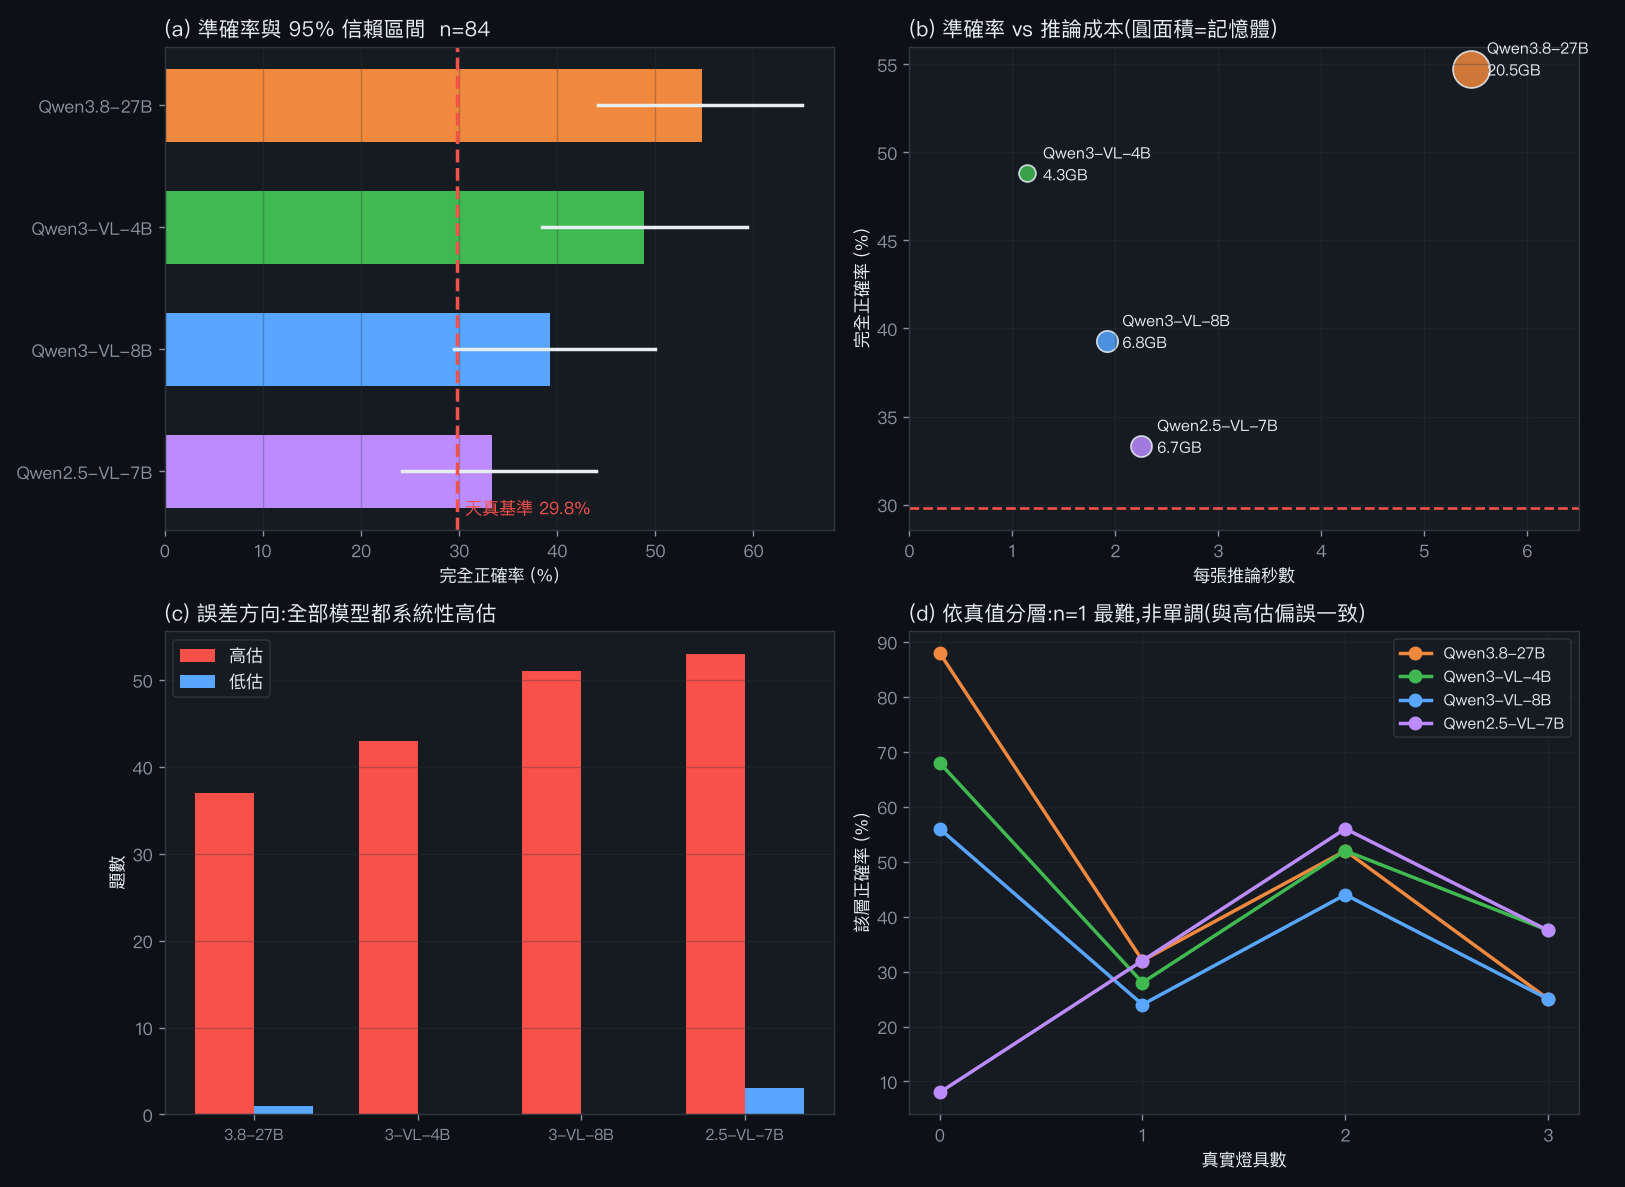
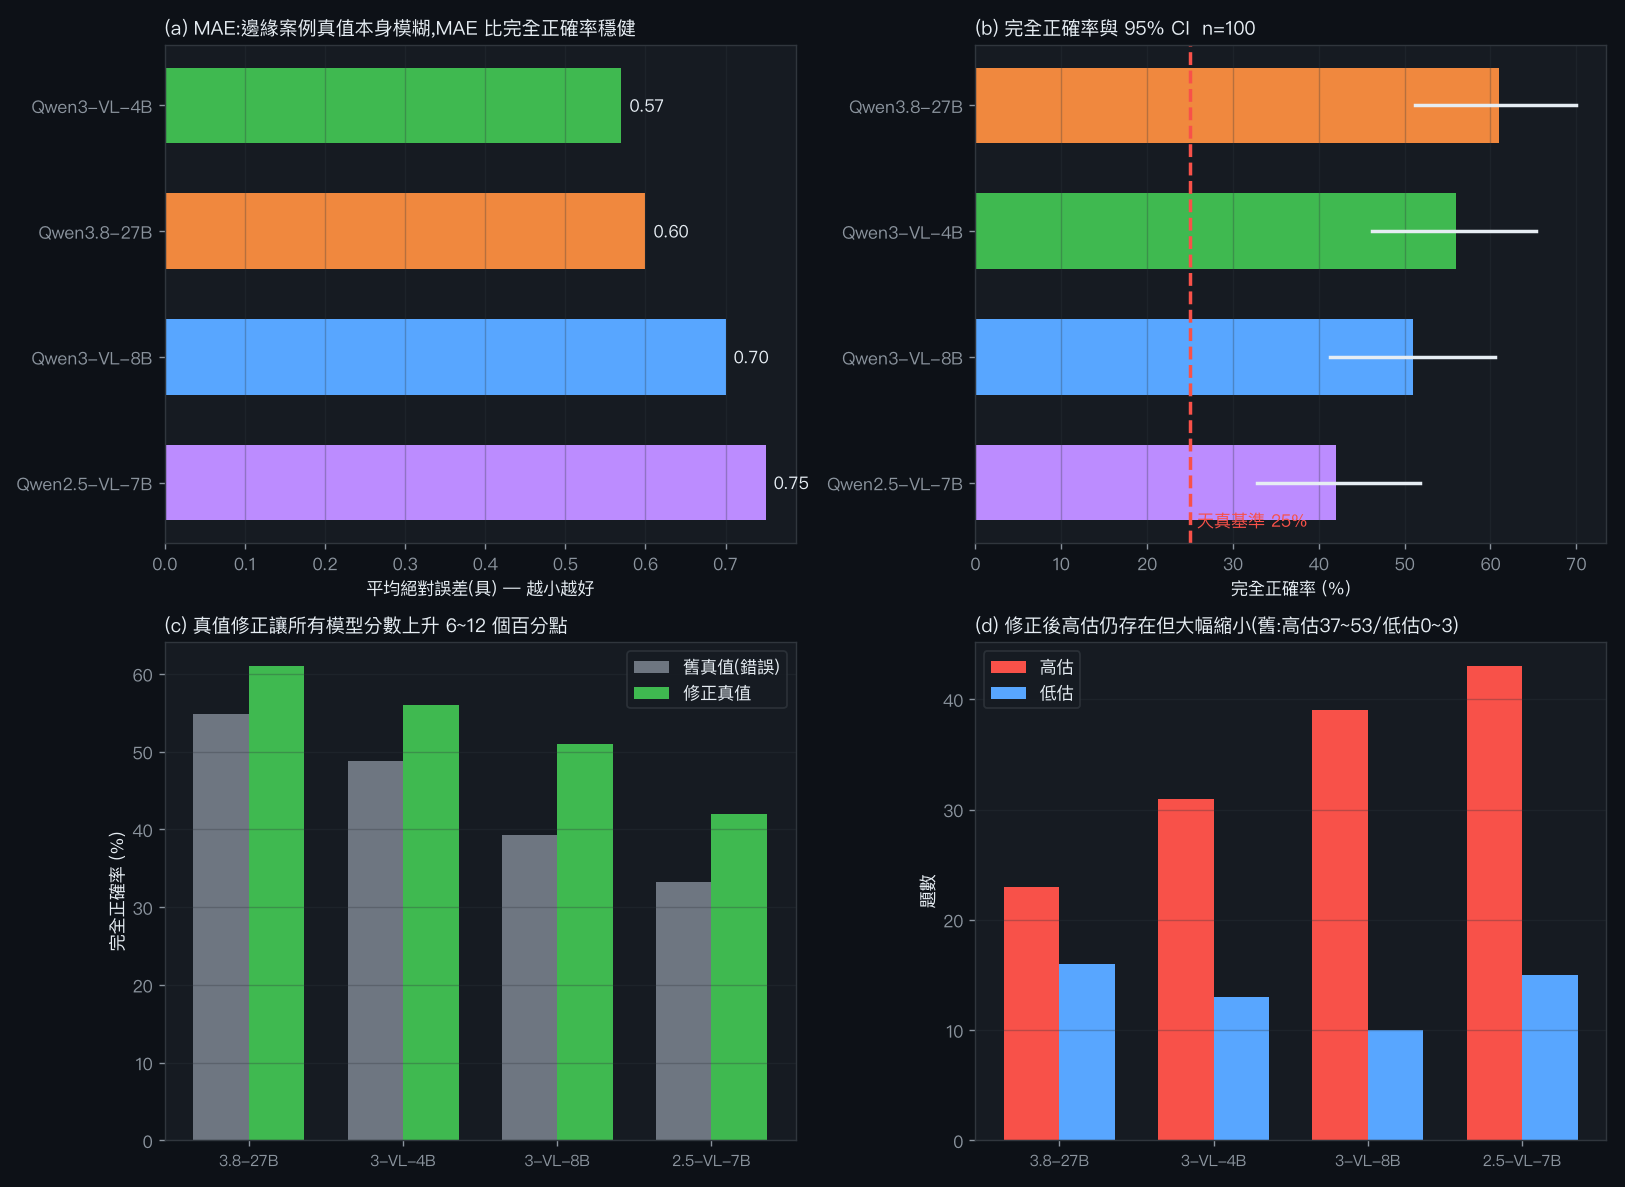
更正:教室計數真值定義錯誤,全頁數字重算並補上測試圖
**已發佈後才發現的錯誤**:可見性用「該燈具的高斯有多少比例贏得 z-buffer」判定,
但燈具有厚度、正面會遮住背面,斜看時比例天生偏低。實測一張圖 7 具燈具各佔
102~1385 像素(肉眼清楚)卻有 6 具被判成看不到,真值算成 1,模型答 5~6 反被判錯。

修正:改用該燈具在畫面上贏得 z-buffer 的像素數(60/120/250 三門檻一致才收)。
- 候選視角丟棄率 94% → 37%(舊定義的高丟棄率本身就是不穩定的警訊,我當時當成嚴謹)
- 題數 84 → 100,答案分布 0~8 具,天真基準 25.0%
- 全部模型分數上升 6~12 個百分點:27B 61.0 / 4B 56.0 / 8B 51.0 / 7B 42.0
- **「系統性高估、盤點會漏報缺件」大幅縮水,該警告已收回**
  (舊 高估37~53:低估0~3 → 新 高估23~43:低估10~16,每題淨偏移僅 +0.16~+0.44)
- Qwen2.5-VL-7B「幾乎從不答 0」在兩種定義下都是 2/25,是模型本身缺陷

新增第三節測試圖樣本(題目 0~8 具 / 四模型全對與全錯案例);
工程圖測試圖因 /Volumes/3D 回報 Operation not permitted 未能附上,不以他圖替代。
方法學章節從四次改為五次,並加上第五條流程:
模型與真值大量不一致時,先假設真值有問題

diff --git a/index.html b/index.html
@@ -131,7 +131,7 @@
       <span class="chip">推薦入口</span><span class="go">進入 →</span></a>
     <a class="card" href="vlm-bench.html">
       <div class="ic">📊</div><h3>本機 VLM 大範圍評測（新）</h3>
-      <p><b>4 模型 × 4 領域、84 題統計檢定</b>：2.9GB 的 Qwen3-VL-4B 與 15GB 的 Qwen3.8-27B <b>統計上無法區分</b>（p=0.180）卻快 4.7 倍。所有模型都<b>系統性高估</b>物件數（高估 37~53 次 vs 低估 0~3 次）——盤點缺件時會回報「東西都在」。含四次「量測工具壞掉」的方法學紀錄與 Colab 微調建議。</p>
+      <p><b>4 模型 × 3 領域、教室計數 100 題統計檢定</b>：2.9GB 的 Qwen3-VL-4B 是實務最佳（MAE 0.57、誤差≤1 達 87% 皆為四者之冠），與 15GB 的 27B 統計上無法區分（p=0.302）卻快 4.8 倍。含測試圖樣本、五次「量測工具壞掉」的方法學紀錄（<b>其中一次已發佈後才發現並更正</b>）與 Colab 微調建議。</p>
       <span class="chip">新・統計分析</span><span class="go">進入 →</span></a>
     <a class="card" href="gs-1920.html">
       <div class="ic">🔬</div><h3>1920 全解析度 + pitch 視角重訓（新）</h3>
